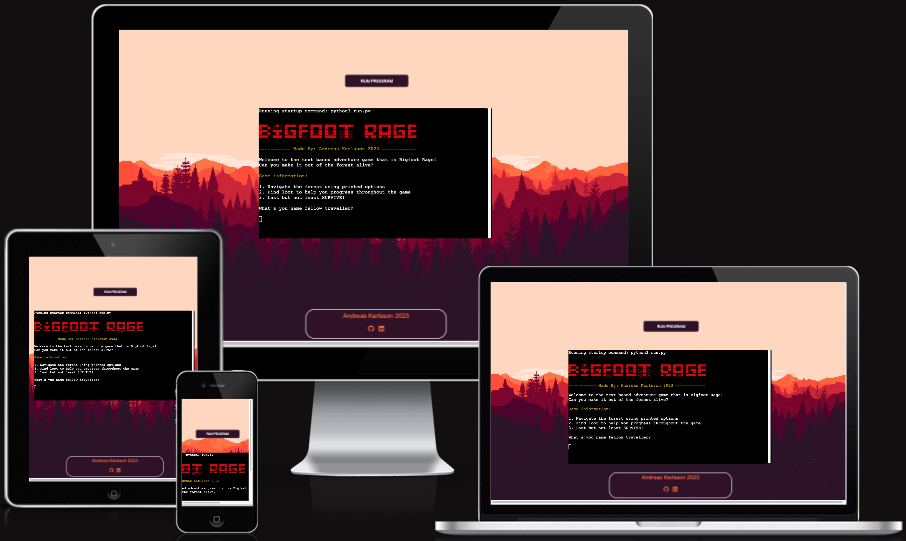
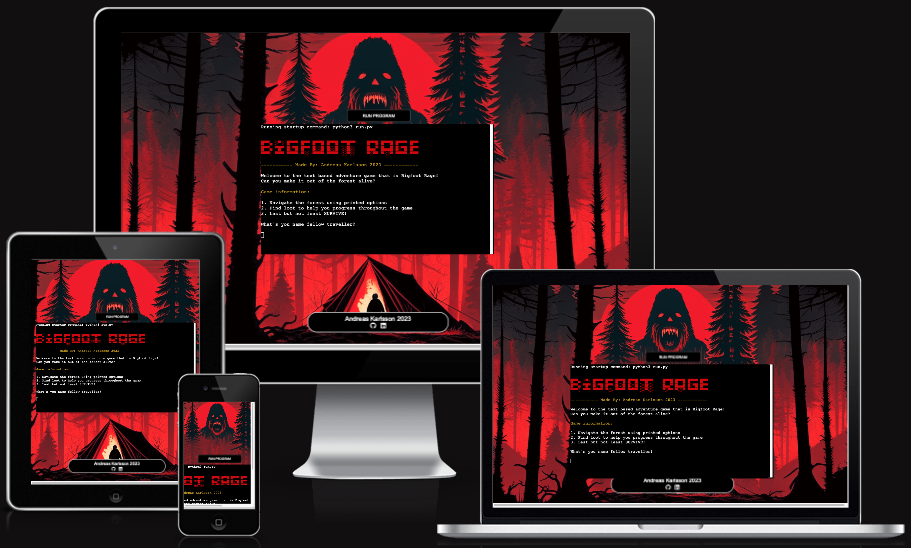
Added user experience in readme with images

diff --git a/views/index.html b/views/index.html
@@ -69,10 +69,8 @@
         <div id="footer-social">
             <p>Andreas Karlsson 2023<br>
                 <a href="https://github.com/andreas-ka" target="_blank" rel="noopener"
-                aria-label="Visit my github repository page, opens up in new tab"><i class="fa-brands fa-github"
-                style="color: #ffffff"></i></a> <a href="https://www.linkedin.com/in/andreas-karlsson-48902249/" target="_blank" rel="noopener"
-                aria-label="Visit my linkedin page, opens up in new tab"><i class="fa-brands fa-linkedin"
-                style="color: #ffffff"></i></a></p>
+                aria-label="Visit my github repository page, opens up in new tab"><i class="fa-brands fa-github" style="color: #ffffff"></i></a> <a href="https://www.linkedin.com/in/andreas-karlsson-48902249/" target="_blank" rel="noopener"
+                aria-label="Visit my linkedin page, opens up in new tab"><i class="fa-brands fa-linkedin" style="color: #ffffff"></i></a></p>
     </footer>
     <script src="https://kit.fontawesome.com/bd05bc0350.js" crossorigin="anonymous"></script>
     <script>

diff --git a/README.md b/README.md
@@ -1,44 +1,40 @@
 # Bigfoot Rage
 
 ### A fun game about survival in the forest, finding loot and avoid being killed by... you guessed it bigfoot!.   
-### Will you make it out alive?       
+### Will you make it out alive?    
+      
+
+### Link to the finished game: [PLAY](https://bigfoot-rage.herokuapp.com/)
 _____________________________________________________________________________
-### Am i responsive
+### Am i responsive image how the site looks on different devices
 ![Screenshot](/assets/images/amiresponsive.png)
 _____________________________________________________________________________
 ### Lucid chart
 ![Screenshot](/assets/images/bigfoot_rage_lucid.png)  
 _____________________________________________________________________________ 
+## Project goals and target audience.  
+### Achieved:
+- Build a game with python that is both fun and lets you choose different options and outcomes.
+- Make a website that also has the same theme as the game.
+- Being able to add new options and more content easy in the future.
 
-## User Experience (UX)
+### Future projects: 
+- Add more items to the game and general content.
+- Would love to add some sort of fighting mechanic.
+- More options to create a unique avatar with stats, hp, strength and so on.
+_____________________________________________________________________________ 
+### Audience:
+- This game is for everyone, older people for the nostalgic feel of game and art,
+the younger generation can see and learn how games were back in the days.
+_____________________________________________________________________________ 
 
-
-### User stories    
-_____________________________________________________________________________  
-
-#### First Time Visitor Goals   
-
-As a First Time Visitor, I want to easily understand the main purpose of the site and learn more about the organisation.
-As a First Time Visitor, I want to be able to easily navigate throughout the site to find content.
-As a First Time Visitor, I want to look for testimonials to understand what their users think of them and see if they are trusted. I also want to locate their social media links to see their followings on social media to determine how trusted and known they are.   
-
-#### Returning Visitor Goals     
-
-As a Returning Visitor, I want to find information about coding challenges.
-As a Returning Visitor, I want to find the best way to get in contact with the organisation with any questions I may have.
-As a Returning Visitor, I want to find community links.   
-
-#### Frequent User Goals   
-
-As a Frequent User, I want to check to see if there are any newly added challenges or hackathons.
-As a Frequent User, I want to check to see if there are any new blog posts.
-As a Frequent User, I want to sign up to the Newsletter so that I am emailed any major updates and/or changes to the website or organisation.  
-
-_____________________________________________________________________________  
-
-### Design   
-The whole design is based on 80s/90s video game vibe. The colorful terminal and the   
-bigfoot background image add a nice touch.
+### Design and features:   
+- The whole design is based on 80s/90s video game vibe. The colorful terminal and the bigfoot background image add a nice touch.    
+![Screenshot](/assets/images/website-landing-page.png)       
+- Feature 1 is the button that starts the game. Easily visible.      
+![Screenshot](/assets/images/bigfoot_runprogram.png)       
+- Feature 2 is a footer with links to the creators linkedin and github repository.     
+![Screenshot](/assets/images/bigfoot-footer.png)  
 
 _____________________________________________________________________________  
 
@@ -47,8 +43,29 @@ _____________________________________________________________________________
 Available colors in termcolor below:    
 ![Screenshot](/assets/images/termcolor_palette.png)   
 - Colors from background, that is also used on button and footer    
-![Screenshot](/assets/images/color_palette_background.png) 
+![Screenshot](/assets/images/color-palette.png)  
 
+_____________________________________________________________________________  
+## User Experience (UX)
+- Display_intro - is what greets the user when they start the game, a welcome message and information how to play the game, also let the user type in its name.   
+- start_game_tile_one - Is the first tile of the game, with a intro text that explains your situation and asks you what option you want to pick to continue to play the game.
+![Screenshot](/assets/images/game-tiles-1.png)  
+_____________________________________________________________________________     
+- crossroad_tile_two - Here the user is shown the first of many ascii arts in the game, this shows a spooky tree when you enter crossroads, user will have 4 options, can explore more or even go back to the tent.   
+- cabin_tile_three - Shows the user a cabin in yellow, here are only two options.   
+![Screenshot](/assets/images/game-tiles-2.png)   
+_____________________________________________________________________________  
+- wolf_den_tile_four - Here the user will encounter the wolf, options are to run away with a successrate of 66%, can fight with your fists or use you knife if you have happened to find it.
+- meadows_tile_five - Another crossroad tile, leaves user with 4 options and ascii art of a magenta flower.       
+![Screenshot](/assets/images/game-tiles-3.png)   
+_____________________________________________________________________________ 
+- treehouse_tile_six - Welcomes you with a green ascii image of a treehouse, 3 options, you can explore, stay the night or go back.   
+- bigfoot_tile_seven - Big fight in the game, it's now or never. Theres only one option that will keep you alive!         
+![Screenshot](/assets/images/game-tiles-4.png)   
+_____________________________________________________________________________ 
+- ocean_tile_eight - A beautiful blue palm invites you to the ocean, 3 options and can be the last tile if user has done everything right!
+- escape_tile_nine - Shows when you have finished the game. Big green text "You escaped" and a congratulations.         
+![Screenshot](/assets/images/game-tiles-5.png)     
 _____________________________________________________________________________  
 
 #### Typography
@@ -58,7 +75,7 @@ _____________________________________________________________________________
 
 #### Imagery
 I really wanted the game to be more then text so i used some ascii art from fsymbols,   
-makes the game more alive and eye catching.
+makes the game more alive and eye catching. Used midjourney AI to make the background image.
 
 _____________________________________________________________________________  
  
